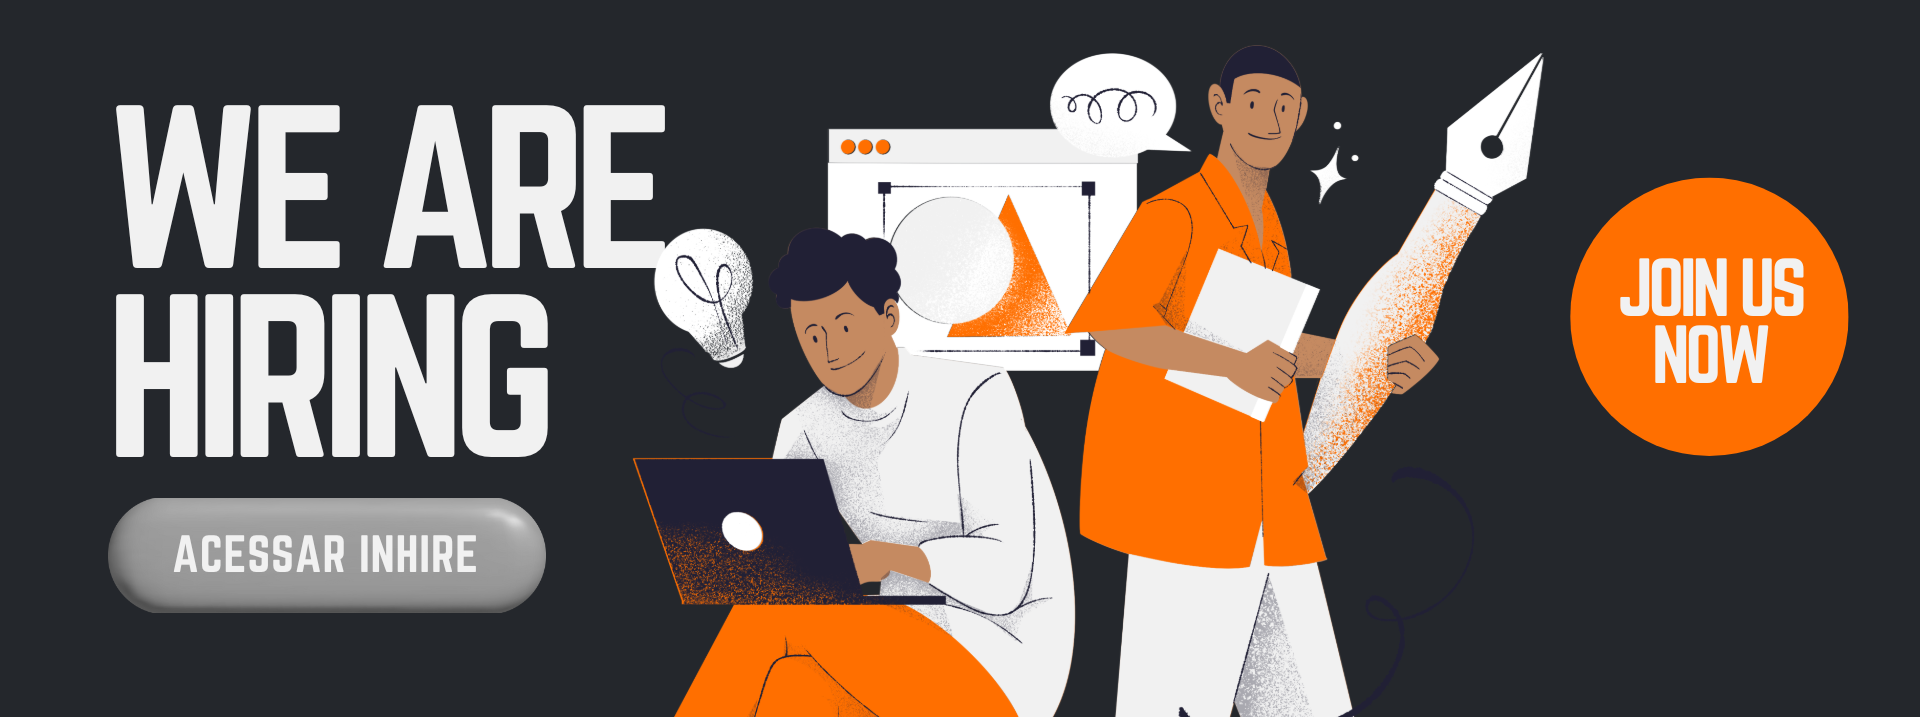
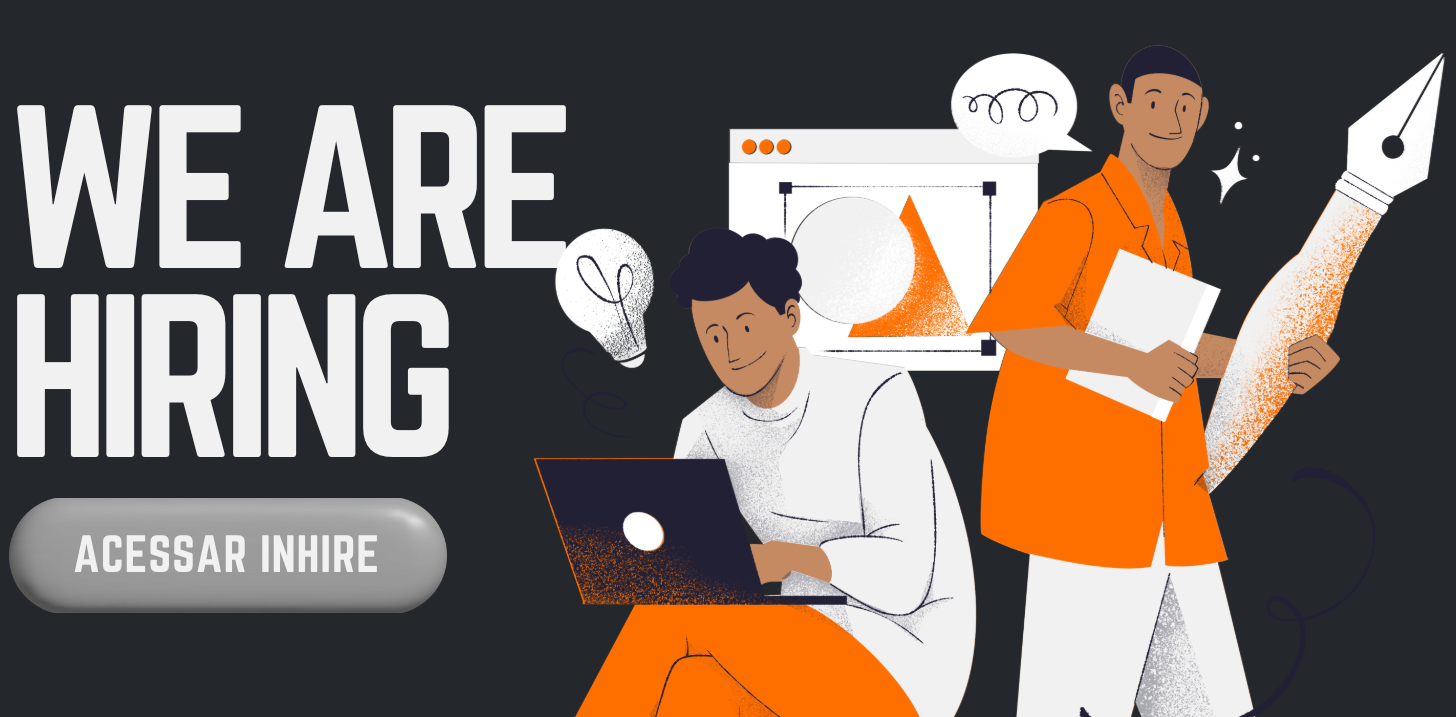
refactor: Moelhorias na landing page home

diff --git a/src/app/pages/landingpage/two/two.component.html b/src/app/pages/landingpage/two/two.component.html
@@ -15,14 +15,30 @@
 
 <section class="section section__hero">
   <div class="hero__container">
-    <lottie-player class="hero__image" src="assets/json/hero__banner.json" background="transparent" speed="1" loop
-      autoplay>
-    </lottie-player>
     <div class="hero__text">
       <h2 class="hero__title">Engenharia civil e industrial.</h2>
       <p class="hero__subtitle">Solicite agora um orçamento e descubra soluções técnicas sob medida para sua obra ou
         indústria.</p>
       <button class="hero__button">Fazer Orçamento</button>
+    </div>
+    <lottie-player class="hero__image" src="assets/json/hero__banner.json" background="transparent" speed="1" loop
+      autoplay>
+    </lottie-player>
+  </div>
+</section>
+
+<section class="section section__team">
+  <div class="team__container">
+    <lottie-player class="team__image" src="assets/json/team__banner.json" background="transparent" speed="1" loop
+      autoplay>
+    </lottie-player>
+    <div class="team__text">
+      <h2 class="team__title">Sua satisfação é a nossa prioridade!</h2>
+      <p class="team__subtitle">Nossa equipe atua de forma integrada, desde o escritório até o time de campo, com um
+        único objetivo: <strong>entender sua necessidade e entregar a melhor solução para o seu projeto.</strong></p>
+      <p class="team__subtitle">Cada etapa é conduzida por profissionais qualificados, comprometidos em resolver
+        problemas com agilidade, responsabilidade e atenção aos detalhes, sempre mantendo uma comunicação clara com o
+        cliente.</p>
     </div>
   </div>
 </section>
@@ -45,13 +61,21 @@
   </div>
 </section>
 
+<section class="section section__localization">
+  <div class="localization__container">
+    <h2 class="localization__title">Nossa localização</h2>
+    <iframe
+      src="https://www.google.com/maps/embed?pb=!1m18!1m12!1m3!1d3657.1971648975395!2d-46.65844268501896!3d-23.561414984691654!2m3!1f0!2f0!3f0!3m2!1i1024!2i768!4f13.1!3m3!1m2!1s0x94ce59c8da0aa315%3A0x0!2sRua%20Arthur%20Lopes%2C%20218!5e0!3m2!1spt-BR!2sbr!4v1234567890123!5m2!1spt-BR!2sbr"
+      allowfullscreen="" loading="lazy" referrerpolicy="no-referrer-when-downgrade" title="Localização Same Engenharia"
+      class="localization__iframe">
+    </iframe>
+  </div>
+</section>
+
 <section class="section section__lead">
   <div class="lead__container">
-    <lottie-player class="lead__image" src="assets/json/lead__banner.json" background="transparent" speed="1" loop
-      autoplay>
-    </lottie-player>
     <div class="lead__text">
-      <h2 class="lead__title">Soluções que geram resultados reais.</h2>
+      <h2 class="lead__title">Cases de sucesso</h2>
       <p class="lead__subtitle">Projetos executados para grandes clientes, entregues com excelência técnica, cumprimento
         de prazos e total conformidade com as normas. Resultados que reforçam a confiança construída em cada parceria.
       </p>
@@ -69,45 +93,10 @@
   </div>
 </section>
 
-<section class="section section__team">
-  <div class="team__container">
-    <div class="hero__text">
-      <h2 class="hero__title">Sua satisfação é a nossa prioridade!</h2>
-      <!-- <h2 class="hero__title">Uma equipe focada no seu sucesso!</h2> -->
-      <p class="hero__subtitle">Nossa equipe atua de forma integrada, desde o escritório até o time de campo, com um
-        único objetivo: <strong>entender sua necessidade e entregar a melhor solução para o seu projeto.</strong></p>
-      <p class="hero__subtitle">Cada etapa é conduzida por profissionais qualificados, comprometidos em resolver
-        problemas com agilidade, responsabilidade e atenção aos detalhes, sempre mantendo uma comunicação clara com o
-        cliente.</p>
-      <!-- <p class="hero__subtitle"><strong>Todos os serviços são executados em total conformidade com as normas técnicas e
-          regulatórias vigentes</strong>, garantindo segurança, qualidade e confiabilidade em cada entrega.</p> -->
-    </div>
-    <lottie-player class="team__image" src="assets/json/team__banner.json" background="transparent" speed="1" loop
-      autoplay>
-    </lottie-player>
-  </div>
-</section>
-
-<section class="section section__localization">
-  <div class="localization__container">
-    <lottie-player class="team__image" src="assets/json/localization__banner.json" background="transparent" speed="1"
-      loop autoplay>
-    </lottie-player>
-    <div class="hero__text">
-      <h2 class="hero__title">Nossa localização</h2>
-      <p class="hero__subtitle">Estamos prontos para atender você presencialmente ou à distância. Nossa estrutura reúne
-        equipe técnica e operacional para oferecer suporte completo, esclarecer dúvidas e iniciar seu projeto com
-        segurança e eficiência.</p>
-      <iframe
-        src="https://www.google.com/maps/embed?pb=!1m18!1m12!1m3!1d3657.1971648975395!2d-46.65844268501896!3d-23.561414984691654!2m3!1f0!2f0!3f0!3m2!1i1024!2i768!4f13.1!3m3!1m2!1s0x94ce59c8da0aa315%3A0x0!2sRua%20Arthur%20Lopes%2C%20218!5e0!3m2!1spt-BR!2sbr!4v1234567890123!5m2!1spt-BR!2sbr"
-        allowfullscreen="" loading="lazy" referrerpolicy="no-referrer-when-downgrade"
-        title="Localização Same Engenharia" class="localization__iframe">
-      </iframe>
-    </div>
-  </div>
-</section>
-
 <section class="section section__hiring">
+  <div class="hiring__container">
+    <img src="/assets/images/hiring__banner_2.png" alt="Hiring Banner" class="hiring__image">
+  </div>
 </section>
 
 <footer class="section section__footer">

diff --git a/src/app/pages/landingpage/two/two.component.scss b/src/app/pages/landingpage/two/two.component.scss
@@ -125,11 +125,7 @@ $gradient-end: #0077FF;
   }
 
   &__hiring {
-    height: 70vh;
-    background-image: url('/assets/images/hiring__banner_2.png');
-    background-repeat: no-repeat;
-    background-size: cover;
-    cursor: pointer;
+    height: auto;
   }
 
   &__footer {
@@ -145,7 +141,7 @@ $gradient-end: #0077FF;
     height: 100%;
     margin: 0 auto;
     display: grid;
-    grid-template-columns: 60% 40%;
+    grid-template-columns: 40% 60%;
     align-items: center;
   }
 
@@ -158,7 +154,7 @@ $gradient-end: #0077FF;
 
   &__title {
     color: $dark-white;
-    font-size: 2.5rem;
+    font-size: 56px;
     font-weight: 500;
     line-height: 1.1;
   }
@@ -201,7 +197,7 @@ $gradient-end: #0077FF;
     height: 100%;
     margin: 0 auto;
     display: grid;
-    grid-template-columns: repeat(2, 1fr);
+    grid-template-columns: 60% 40%;
     align-items: center;
     gap: $gp-lg;
   }
@@ -234,8 +230,8 @@ $gradient-end: #0077FF;
     width: 100%;
     height: 100%;
     margin: 0 auto;
-    display: grid;
-    grid-template-columns: repeat(2, 1fr);
+    display: flex;
+    flex-direction: column;
     align-items: center;
     gap: $gp-lg;
   }
@@ -361,16 +357,39 @@ $gradient-end: #0077FF;
     width: 100%;
     height: 100%;
     margin: 0 auto;
-    display: grid;
-    grid-template-columns: repeat(2, 1fr);
-    align-items: center;
-    gap: $gp-lg;
+
+    display: flex;
+    flex-direction: column;
+    gap: $gp-md;
+  }
+
+  &__title {
+    color: $dark-white;
+    font-size: 2.5rem;
+    font-weight: 500;
+    line-height: 1.1;
+    text-align: end;
   }
 
   &__iframe {
     width: 100%;
+    height: 50vh;
     border-radius: 10px;
     grid-column: 1/-1;
+  }
+}
+
+.hiring {
+  &__container {
+    max-width: 1200px;
+    margin: 0 auto;
+  }
+
+  &__image {
+    width: 100%;
+    height: 100%;
+    object-fit: cover;
+    display: block;
   }
 }
 

diff --git a/src/app/pages/landingpage/two/two.component.ts b/src/app/pages/landingpage/two/two.component.ts
@@ -31,4 +31,9 @@ export class TwoComponent {
     { title: 'Esgoto' },
     { title: 'Linha de água' },
   ]
+
+  works = [
+    { url: 'assets/test/silo.png', alt: 'Obra 2' },
+    { url: 'assets/test/work.png', alt: 'Obra 2' },
+  ]
 }
